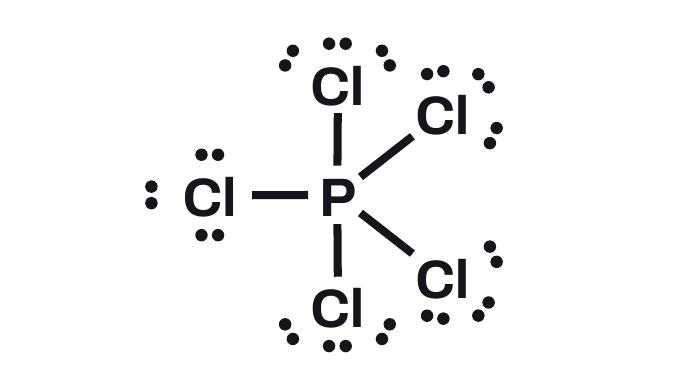
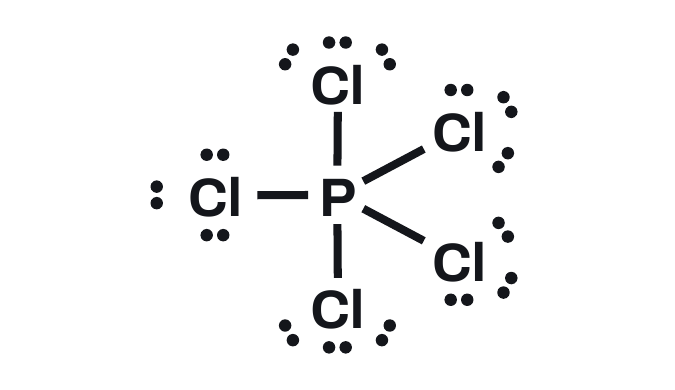
Chem 5.3: overseer review fixes; VSEPR sheet to 11 rows, PhET sheet is an Activity
Overseer review 2026-11-11, with Matt's answers the same day:
- 11 rows: row 1 CH4 is Matt's worked example (blank, unscored; /10).
  CHCl3 added; CO2 -> CS2 and CH2O -> COCl2 so rows aren't slide copies.
  SO2 and PCl5 stay: students do the PhET activity first.
- Title "Molecular Geometry" (DECISIONS 5.3); "electron groups" not
  "domains"; bonding-pair counting rule in the Remember box; reminder in
  Matt's words in the Lewis header; directions rewritten.
- Key: slide 19 angle values first, SO2 alternate forms accepted, octet
  note narrowed to period 3; new CHCl3, CS2, COCl2 drawings; PCl5
  lone pairs spaced out. Lewis drawings kept per Matt (exception to
  SHULL-CHG-0042, worksheet keys).
- PhET sheet: docType Activity, title "Molecular Geometry with PhET";
  wedges and dashes "if you can".
Files build as "5.3 Practice Set" and "5.3 Activity" (no topic: 5.3 has
no short title).

Claude-Session: https://claude.ai/code/session_01HWTQzESTQu3gEvQqyJr2yd

diff --git a/templates/slide/decks/chem_u04_u05/vsepr_lewis_key.js b/templates/slide/decks/chem_u04_u05/vsepr_lewis_key.js
@@ -29,8 +29,6 @@ const MOLS = {
                 bonds: [["C", "A", 1], ["C", "B", 1], ["C", "D", 1], ["C", "E", 1]], pairs: [] }, u: 0.45, fs: 18 },
   NH3: { mol: MOL.NH3, u: 0.5, fs: 18, dy: -0.12 },
   H2O: { mol: MOL.H2O, u: 0.55, fs: 18, dy: -0.1 },
-  CO2: { mol: MOL.CO2, u: 0.62, fs: 18 },
-  CH2O: { mol: MOL.CH2O, u: 0.46, fs: 18, dy: 0.12 },
   HCN: { mol: { atoms: { H: ["H", -1, 0], C: ["C", 0, 0], N: ["N", 1, 0] },
                 bonds: [["H", "C", 1], ["C", "N", 3]], pairs: [["N", 0]] }, u: 0.6, fs: 18 },
   PCl3: { mol: { atoms: { P: ["P", 0, 0], A: ["Cl", ...at(155)], B: ["Cl", ...at(90)], D: ["Cl", ...at(25)] },
@@ -42,9 +40,18 @@ const MOLS = {
   SO2: { mol: { atoms: { S: ["S", 0, 0], A: ["O", ...at(155)], B: ["O", ...at(25)] },
                 bonds: [["S", "A", 2], ["S", "B", 1]],
                 pairs: [["S", -90], ["A", 155 + 60], ["A", 155 - 60], ...outer3("B", 25)] }, u: 0.62, fs: 18, dy: -0.05 },
-  PCl5: { mol: { atoms: { P: ["P", 0, 0], A: ["Cl", 0, -1], B: ["Cl", 0, 1], D: ["Cl", -1.15, 0], E: ["Cl", ...at(-38, 1.2)], F: ["Cl", ...at(38, 1.2)] },
+  CHCl3: { mol: { atoms: { C: ["C", 0, 0], A: ["H", 0, -1], B: ["Cl", 1, 0], D: ["Cl", 0, 1], E: ["Cl", -1, 0] },
+                  bonds: [["C", "A", 1], ["C", "B", 1], ["C", "D", 1], ["C", "E", 1]],
+                  pairs: [...outer3("B", 0), ...outer3("D", 90), ...outer3("E", 180)] }, u: 0.42, fs: 15 },
+  CS2: { mol: { atoms: { S1: ["S", -1, 0], C: ["C", 0, 0], S2: ["S", 1, 0] },
+                bonds: [["S1", "C", 2], ["C", "S2", 2]],
+                pairs: [["S1", 135], ["S1", 225], ["S2", 45], ["S2", -45]] }, u: 0.62, fs: 18 },
+  COCl2: { mol: { atoms: { C: ["C", 0, 0], O: ["O", 0, -1], A: ["Cl", ...at(150)], B: ["Cl", ...at(30)] },
+                  bonds: [["C", "O", 2], ["C", "A", 1], ["C", "B", 1]],
+                  pairs: [["O", -135], ["O", -45], ...outer3("A", 150), ...outer3("B", 30)] }, u: 0.46, fs: 16, dy: 0.12 },
+  PCl5: { mol: { atoms: { P: ["P", 0, 0], A: ["Cl", 0, -1.1], B: ["Cl", 0, 1.1], D: ["Cl", -1.2, 0], E: ["Cl", ...at(-28, 1.35)], F: ["Cl", ...at(28, 1.35)] },
                  bonds: [["P", "A", 1], ["P", "B", 1], ["P", "D", 1], ["P", "E", 1], ["P", "F", 1]],
-                 pairs: [...outerFan("A", -90), ...outerFan("B", 90), ...outer3("D", 180), ...outerFan("E", -38), ...outerFan("F", 38)] }, u: 0.37, fs: 13 },
+                 pairs: [...outerFan("A", -90), ...outerFan("B", 90), ...outer3("D", 180), ...outerFan("E", -28), ...outerFan("F", 28)] }, u: 0.34, fs: 13 },
 };
 
 const names = [];
